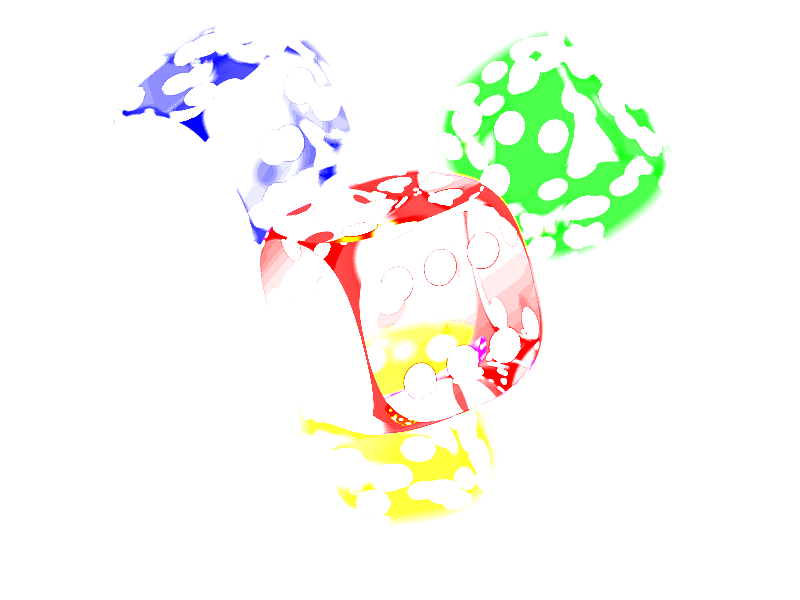
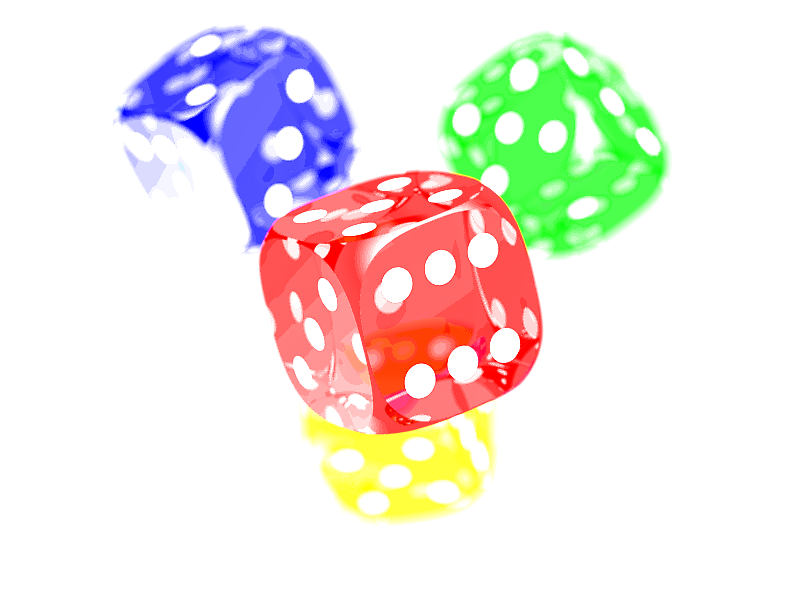
some fixes

Changed region(s): [[0.125, 0.03, 0.8438, 0.87]]

diff --git a/Image_Enhancer/imageenhancer.py b/Image_Enhancer/imageenhancer.py
@@ -29,10 +29,10 @@ def enhance_image(image):
 #print(images)
 
 #all image directories
-images = glob.glob("Image_Enhancer/input_images/*")
+image_files = glob.glob("Image_Enhancer/input_images/*")
 
 #FACTORS
-brightness_factor = .5
+brightness_factor = .1
 sharpness_factor = 2
 contrast_factor = 30
 #brightness_factor = b
@@ -46,7 +46,7 @@ file_clear = open("Image_Enhancer/image_data.txt",'w')
 file_object = open('Image_Enhancer/image_data.txt', 'a')
 
 #LOOPS UNTIL ALL FILES ARE ENHANCED
-for image_file in images:
+for image_file in image_files:
     x += 1 #counter
     image = Image.open(image_file)
     
